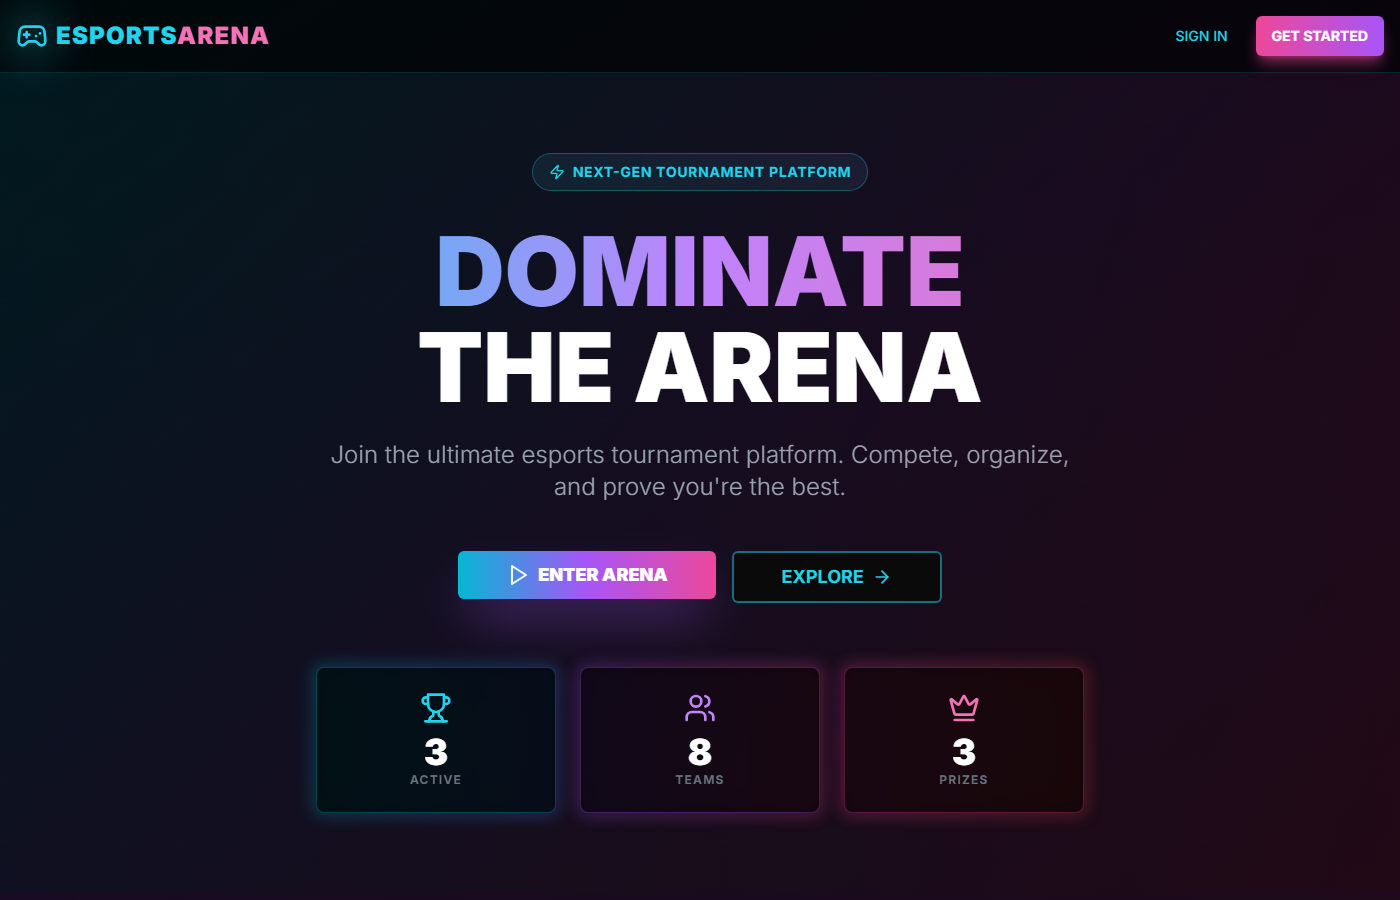
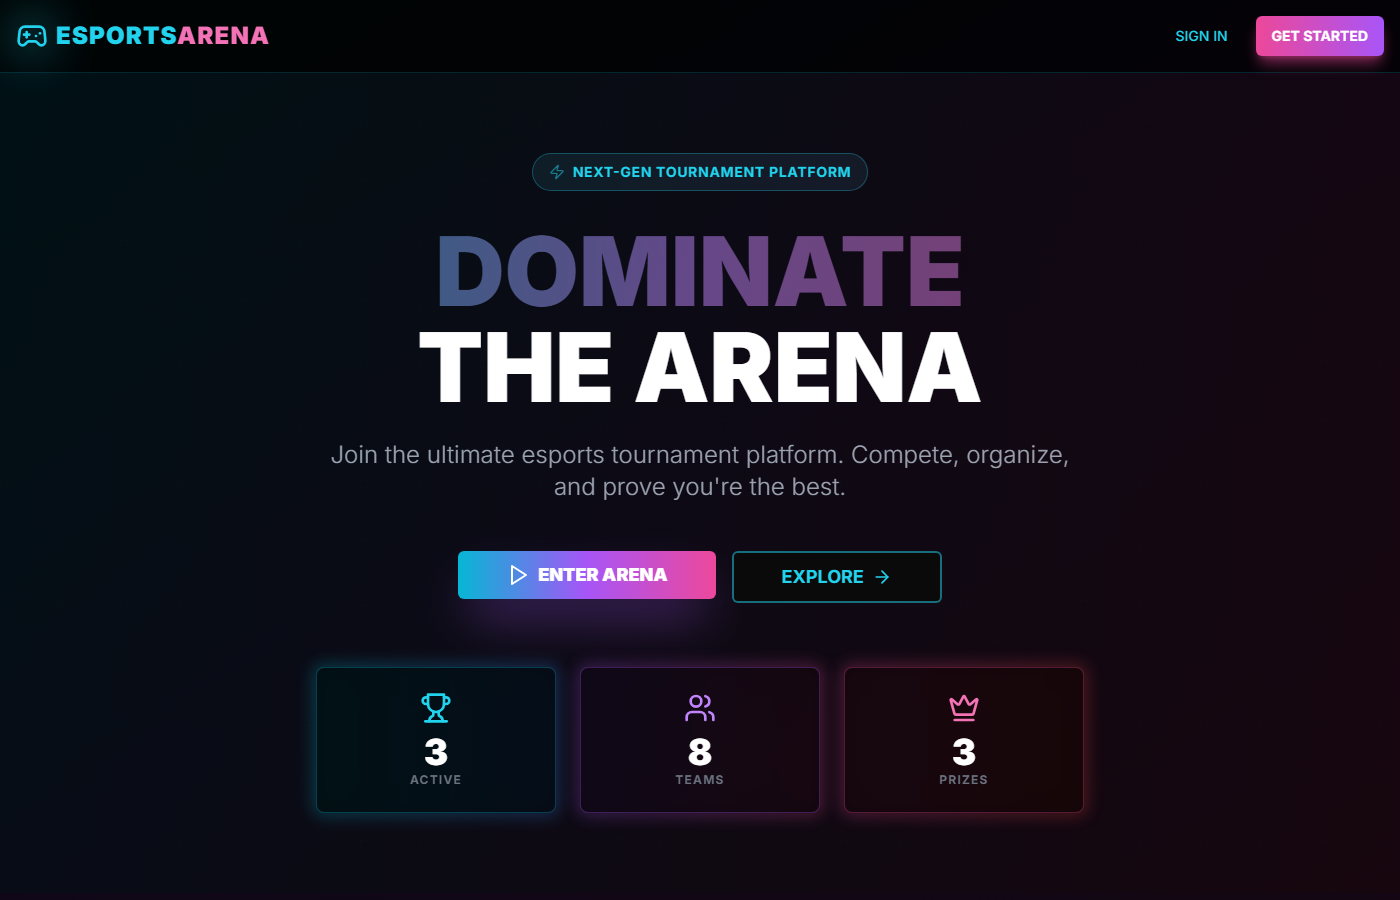
docs: add portfolio screenshot capture and refresh demo images

Changed region(s): [[0.3071, 0.2489, 0.7064, 0.3422]]

diff --git a/scripts/capture-portfolio-screenshots.ts b/scripts/capture-portfolio-screenshots.ts
@@ -1,0 +1,105 @@
+import { mkdir } from 'node:fs/promises'
+import path from 'node:path'
+import { chromium } from 'playwright'
+import { LIVE_DEMO_URL } from '../docs/demo-site'
+
+const outputDir = path.join(process.cwd(), 'docs', 'images')
+const viewport = { width: 1400, height: 900 }
+
+const email = process.env.E2E_EMAIL ?? 'player1@example.com'
+const password = process.env.E2E_PASSWORD ?? 'password123'
+
+async function capturePublicPages() {
+  const browser = await chromium.launch()
+  const page = await browser.newPage({ viewport })
+
+  const routes = [
+    { file: '01-landing.png', url: '/', fullPage: false, waitMs: 4000 },
+    { file: '02-tournaments.png', url: '/tournaments', fullPage: true, waitMs: 4000 },
+    { file: '03-teams.png', url: '/teams', fullPage: true, waitMs: 4000 },
+    { file: '04-login.png', url: '/login', fullPage: false, waitMs: 3000 },
+    { file: '05-register.png', url: '/register', fullPage: false, waitMs: 3000 },
+  ] as const
+
+  for (const route of routes) {
+    await page.goto(new URL(route.url, LIVE_DEMO_URL).toString(), { waitUntil: 'networkidle' })
+    await page.waitForTimeout(route.waitMs)
+    await page.screenshot({
+      path: path.join(outputDir, route.file),
+      fullPage: route.fullPage,
+    })
+    console.log(`Saved ${route.file}`)
+  }
+
+  await browser.close()
+}
+
+async function captureAuthenticatedPages() {
+  const browser = await chromium.launch()
+  const page = await browser.newPage({ viewport })
+
+  await page.goto(new URL('/login', LIVE_DEMO_URL).toString(), { waitUntil: 'networkidle' })
+  await page.getByLabel('Email').fill(email)
+  await page.getByLabel('Password').fill(password)
+  await page.getByRole('button', { name: /^sign in$/i }).click()
+  await page.waitForURL(/\/dashboard(\?|$)/, { timeout: 45_000 })
+
+  await page.waitForTimeout(2000)
+  await page.screenshot({ path: path.join(outputDir, '06-dashboard.png') })
+  console.log('Saved 06-dashboard.png')
+
+  await page.goto(new URL('/tournaments', LIVE_DEMO_URL).toString(), { waitUntil: 'networkidle' })
+  await page.waitForTimeout(2000)
+  const tournamentLink = page.locator('a[href^="/tournaments/"]').first()
+  await tournamentLink.waitFor({ timeout: 20_000 })
+  const href = await tournamentLink.getAttribute('href')
+  if (!href) {
+    throw new Error('No tournament detail link found on /tournaments')
+  }
+
+  await page.goto(new URL(href, LIVE_DEMO_URL).toString(), { waitUntil: 'networkidle' })
+  await page.waitForTimeout(3000)
+  await page.screenshot({ path: path.join(outputDir, '07-tournament-detail.png'), fullPage: true })
+  console.log('Saved 07-tournament-detail.png')
+
+  await browser.close()
+}
+
+async function captureTournamentDetailPublic() {
+  const browser = await chromium.launch()
+  const page = await browser.newPage({ viewport })
+
+  await page.goto(new URL('/tournaments', LIVE_DEMO_URL).toString(), { waitUntil: 'networkidle' })
+  await page.waitForTimeout(2000)
+  const tournamentLink = page.locator('a[href^="/tournaments/"]').first()
+  await tournamentLink.waitFor({ timeout: 20_000 })
+  const href = await tournamentLink.getAttribute('href')
+  if (!href) {
+    throw new Error('No tournament detail link found on /tournaments')
+  }
+
+  await page.goto(new URL(href, LIVE_DEMO_URL).toString(), { waitUntil: 'networkidle' })
+  await page.waitForTimeout(3000)
+  await page.screenshot({ path: path.join(outputDir, '07-tournament-detail.png'), fullPage: true })
+  console.log('Saved 07-tournament-detail.png')
+
+  await browser.close()
+}
+
+async function main() {
+  await mkdir(outputDir, { recursive: true })
+  console.log(`Capturing portfolio screenshots from ${LIVE_DEMO_URL}`)
+  await capturePublicPages()
+  try {
+    await captureAuthenticatedPages()
+  } catch (error) {
+    console.warn('Authenticated captures failed; saving public tournament detail only.', error)
+    await captureTournamentDetailPublic()
+  }
+  console.log('Done.')
+}
+
+main().catch((error) => {
+  console.error(error)
+  process.exit(1)
+})

diff --git a/docs/SCREENSHOTS.md b/docs/SCREENSHOTS.md
@@ -1,8 +1,16 @@
 # Screenshot checklist (portfolio README)
 
-The README currently embeds **five** captures from production (see `docs/images/`). The canonical demo host is `docs/demo-site.ts` (`LIVE_DEMO_URL`).
+The README embeds captures from production (see `docs/images/`). The canonical demo host is `docs/demo-site.ts` (`LIVE_DEMO_URL`).
 
-Regenerate anytime after deploy with Playwright (from repo root):
+## Regenerate all portfolio shots
+
+```bash
+npm run screenshots:portfolio
+```
+
+Uses `player1@example.com` / `password123` by default for the dashboard capture. Override with `E2E_EMAIL` and `E2E_PASSWORD` if needed.
+
+## Public pages only (manual)
 
 ```bash
 npx playwright screenshot "https://esports-tournament-platform-giq9.vercel.app/" docs/images/01-landing.png --viewport-size=1400,900 --wait-for-timeout=4000
@@ -19,20 +27,12 @@ npx playwright screenshot "https://esports-tournament-platform-giq9.vercel.app/r
 | `03-teams.png` | `/teams` | Team discovery |
 | `04-login.png` | `/login` | Auth UI |
 | `05-register.png` | `/register` | Sign-up |
-
-## Swaps when you have seeded or prod data
-
-Replace any file above, or add new names and update `README.md`, if you want to highlight:
-
-| Page / view | Why |
-| --- | --- |
-| `/tournaments/[id]` | Bracket / registration detail |
-| `/dashboard/tournaments` | Organizer hub (requires login) |
-| `/dashboard/stats` | Per-team & per-game stats |
+| `06-dashboard.png` | `/dashboard` | Signed-in home |
+| `07-tournament-detail.png` | `/tournaments/[id]` | Bracket / registrations |
 
 ## Tips
 
-- Use **seeded data** locally (`npm run db:reset`) before capturing dashboard shots.
+- Seed the demo database first (`docs/DEMO.md`).
 - **Crop** browser chrome or use a clean window; hide bookmarks bar.
 - Prefer **one theme** consistently across shots.
 - Full-page screenshots grow file size quickly; use viewport-only for hero pages if the PNG is too large for git.

diff --git a/README.md b/README.md
@@ -9,7 +9,7 @@ Full-stack tournament management app for competitive teams and organizers: regis
 ## Try the demo
 
 1. Open the [live demo](https://esports-tournament-platform-giq9.vercel.app/login).
-2. Sign in with **`admin@example.com`** / **`password123`** (seeded organizer account — see [`docs/DEMO.md`](./docs/DEMO.md)).
+2. Sign in with **`player1@example.com`** / **`password123`** (seeded player account — see [`docs/DEMO.md`](./docs/DEMO.md)).
 3. On the dashboard, open **Tournaments** or browse **Valorant Champions Series 2026** under `/tournaments` to view bracket and match state.
 
 ## Screenshots
@@ -24,9 +24,13 @@ From the [live demo](https://esports-tournament-platform-giq9.vercel.app/). Rege
 | --- | --- |
 | ![Teams](./docs/images/03-teams.png) | ![Login](./docs/images/04-login.png) |
 
-| Create account |
+| Create account | Player dashboard |
+| --- | --- |
+| ![Register](./docs/images/05-register.png) | ![Dashboard](./docs/images/06-dashboard.png) |
+
+| Tournament detail |
 | --- |
-| ![Register](./docs/images/05-register.png) |
+| ![Tournament detail](./docs/images/07-tournament-detail.png) |
 
 ## Highlights
 

diff --git a/docs/DEMO.md b/docs/DEMO.md
@@ -6,7 +6,7 @@ The public portfolio demo at [`LIVE_DEMO_URL`](./demo-site.ts) should use the sa
 
 | Role | Email | Password |
 | --- | --- | --- |
-| Admin / organizer | `admin@example.com` | `password123` |
+| Admin / organizer | `admin@example.com` | `password123` (after `npm run db:reset` on the demo database) |
 | Sample players | `player1@example.com` … `player10@example.com` | `password123` |
 
 Override admin credentials with `SEED_ADMIN_EMAIL`, `SEED_ADMIN_PASSWORD`, `SEED_ADMIN_USERNAME`, and `SEED_ADMIN_NAME` (see `.env.example`).
@@ -31,5 +31,5 @@ Override admin credentials with `SEED_ADMIN_EMAIL`, `SEED_ADMIN_PASSWORD`, `SEED
 ## Verify quickly
 
 - Open `/` — platform stats and live/upcoming sections should not be empty.
-- Sign in as `admin@example.com` / `password123` — `/dashboard` loads with activity and organizer actions.
+- Sign in as `player1@example.com` / `password123` — `/dashboard` loads with activity and stats.
 - Open **Valorant Champions Series 2026** from `/tournaments` — bracket and match rows visible.
